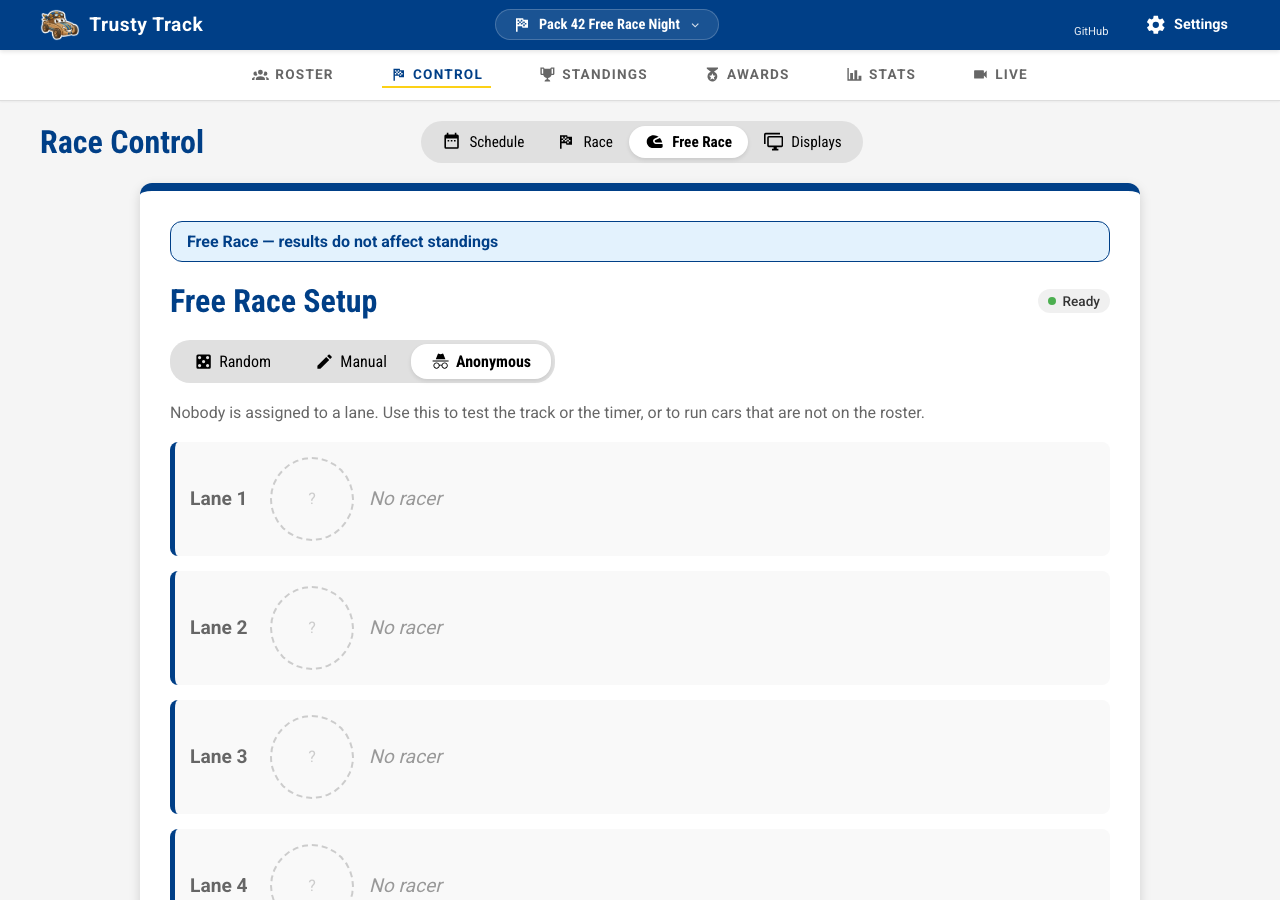
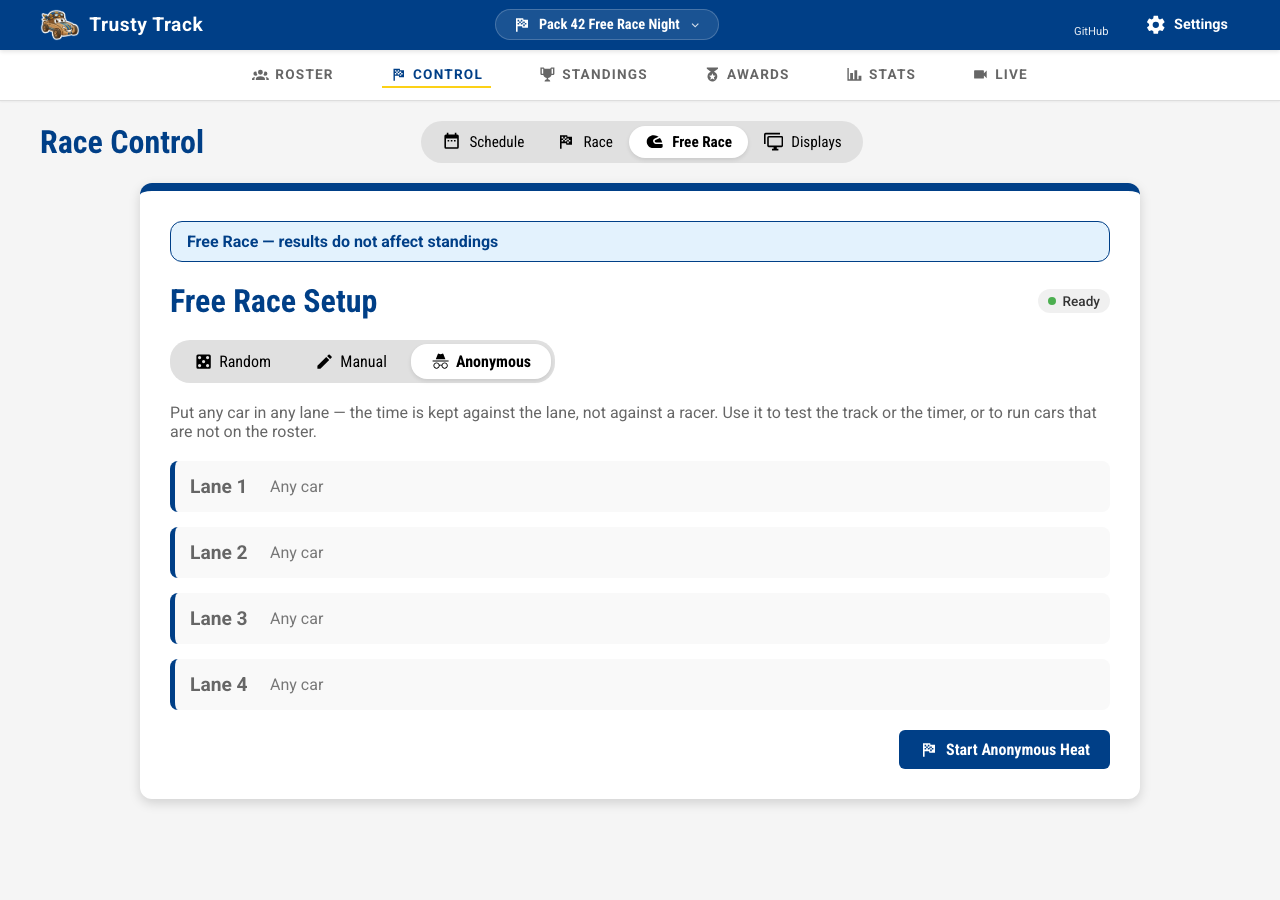
fix(free-race): say what an anonymous lane is, not what it lacks
The anonymous mode landed with the empty-lane treatment the other two
modes use for a lane nobody is in: a dashed "?" avatar and the words "No
racer". That says the wrong thing. A lane in an anonymous heat is not
empty — a car runs down it and the time is kept against the lane rather
than against a person. Read literally, the screen announced four lanes
that would sit still.

A row now reads "Lane 1 — Any car", with no avatar, and the mode's note
leads with the instruction rather than the absence: "Put any car in any
lane — the time is kept against the lane, not against a racer." The
shorter rows also fit the whole mode, Start button included, on screen
without scrolling.

The test matches "Any car" as an exact string, because the note itself
contains "any car" and a case-insensitive regex counted five lanes on a
four-lane track. It also asserts "(empty)" never appears here, which is
the wording this must not collapse back into.

diff --git a/frontend/src/features/racing/components/FreeRaceLaneSetup.tsx b/frontend/src/features/racing/components/FreeRaceLaneSetup.tsx
@@ -75,26 +75,18 @@ const laneNumber = {
   color: '#666',
 } as const;
 
-const emptyAvatar = {
-  width: '80px',
-  height: '80px',
-  borderRadius: '50%',
-  border: '2px dashed #ccc',
-  display: 'flex',
-  alignItems: 'center',
-  justifyContent: 'center',
-  color: '#ccc',
-  marginRight: '15px',
-} as const;
-
-/** A lane in an anonymous heat: no racer, and nothing to drag or pick. */
+/**
+ * A lane in an anonymous heat.
+ *
+ * Deliberately not the empty-lane treatment the other two modes use: a lane
+ * here is not empty, it is unnamed — a car runs in it and the time is kept
+ * against the lane. "No racer" beside a dashed avatar said the opposite, and
+ * read as a lane nobody would be racing in.
+ */
 const AnonymousLaneItem: React.FC<{ lane: number }> = ({ lane }) => (
-  <div style={{ ...laneCard, background: '#f9f9f9' }}>
+  <div style={{ ...laneCard, background: '#f9f9f9', padding: '14px 15px' }}>
     <div style={laneNumber}>Lane {lane}</div>
-    <div style={emptyAvatar}>?</div>
-    <div style={{ flex: 1, color: '#999', fontSize: '1.2rem' }}>
-      <em>No racer</em>
-    </div>
+    <div style={{ flex: 1, color: '#777' }}>Any car</div>
   </div>
 );
 
@@ -415,8 +407,9 @@ export const FreeRaceLaneSetup: React.FC<FreeRaceLaneSetupProps & { racers: Reco
 
         {mode === 'anonymous' && (
           <p style={{ color: '#666', marginTop: 0, marginBottom: '20px' }}>
-            Nobody is assigned to a lane. Use this to test the track or the
-            timer, or to run cars that are not on the roster.
+            Put any car in any lane — the time is kept against the lane, not
+            against a racer. Use it to test the track or the timer, or to run
+            cars that are not on the roster.
           </p>
         )}
 

diff --git a/frontend/src/features/racing/components/FreeRaceLaneSetup.test.tsx b/frontend/src/features/racing/components/FreeRaceLaneSetup.test.tsx
@@ -199,13 +199,16 @@ describe('FreeRaceLaneSetup', () => {
     expect(startBtn).not.toBeDisabled();
   });
 
-  it('Anonymous mode gives every lane on the track an empty lane and no picker', async () => {
+  it('Anonymous mode gives every lane on the track a row and no picker', async () => {
     render(<StatefulWrapper {...defaultProps} />);
     fireEvent.click(screen.getByRole('button', { name: /Anonymous/i }));
 
     await waitFor(() => {
-      expect(screen.getAllByText(/No racer/i)).toHaveLength(4);
+      expect(screen.getAllByText('Any car')).toHaveLength(4);
     });
+    // Not the empty-lane wording the other modes use: a lane here is unnamed,
+    // not empty.
+    expect(screen.queryByText(/\(empty\)/i)).not.toBeInTheDocument();
     expect(screen.getByText('Lane 4')).toBeInTheDocument();
     expect(screen.queryAllByRole('combobox')).toHaveLength(0);
     // The draw's racers belong to the other modes, not this one.
@@ -219,7 +222,7 @@ describe('FreeRaceLaneSetup', () => {
     render(<StatefulWrapper {...defaultProps} />);
     fireEvent.click(screen.getByRole('button', { name: /Anonymous/i }));
     await waitFor(() => {
-      expect(screen.getAllByText(/No racer/i)).toHaveLength(4);
+      expect(screen.getAllByText('Any car')).toHaveLength(4);
     });
 
     fireEvent.click(screen.getByRole('button', { name: /Start Anonymous Heat/i }));

diff --git a/docs/race-day.md b/docs/race-day.md
@@ -551,6 +551,6 @@ Use **Free Race**. A free race heat runs on the timer and appears on the audienc
 
 It is the right tool for a shake-down run before doors open, a parent's or sibling's car, a demonstration for a scout who wants to see the track work, and the fun heats at the end.
 
-From **Race Control**, switch to the Free Race view and choose who is in each lane. **Random** fills the lanes from the checked-in roster, which is usually what you want for an impromptu run; **Manual** lets you pick each lane by hand, and lanes may be left empty; **Anonymous** runs every lane empty, for testing the track or for cars that are not on the roster. Run it exactly as you would an official heat.
+From **Race Control**, switch to the Free Race view and choose who is in each lane. **Random** fills the lanes from the checked-in roster, which is usually what you want for an impromptu run; **Manual** lets you pick each lane by hand, and lanes may be left empty; **Anonymous** names nobody, keeping each time against the lane — for testing the track, or for cars that are not on the roster. Run it exactly as you would an official heat.
 
 See the [Free Race guide](free-race.md) for the full walkthrough.

diff --git a/docs/free-race.md b/docs/free-race.md
@@ -41,13 +41,13 @@ _Manual mode gives every lane a racer picker. Leave a lane on "Select racer" to 
 
 ### Anonymous
 
-**Anonymous** assigns nobody at all — every lane runs empty. Use it to test the
-track or the timer before anyone arrives, or to run cars that are not on the
-roster. The button reads **Start Anonymous Heat**, and the times are recorded
-against lanes rather than against people.
+**Anonymous** names nobody. Put any car in any lane and the time is kept
+against the lane rather than against a racer, so the button reads **Start
+Anonymous Heat**. Use it to test the track or the timer before anyone arrives,
+or to run cars that are not on the roster.
 
 ![Anonymous lane setup](assets/screenshots/free-race/03-lane-setup-anonymous.png)
-_Anonymous mode. Nothing to pick and nothing to shuffle — one empty lane for every lane the track has._
+_Anonymous mode. Nothing to pick and nothing to shuffle — one row per lane the track has._
 
 !!! note "Random draws from the checked-in racers only"
 
